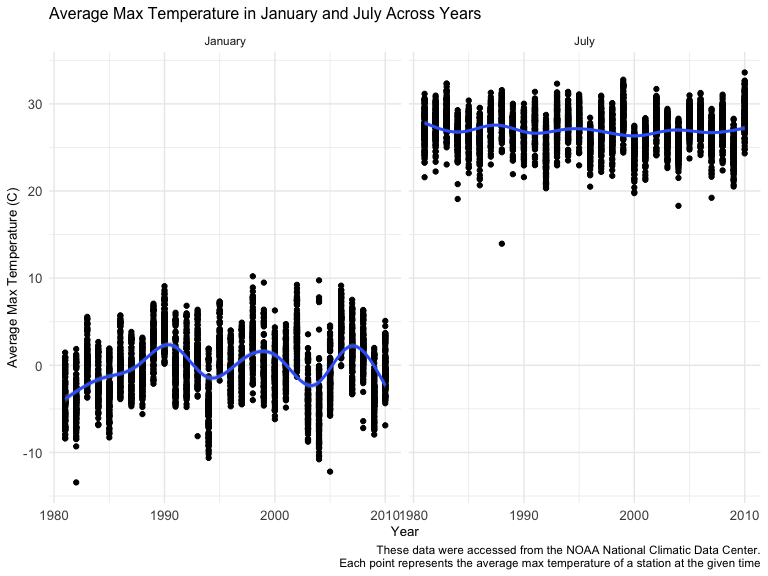
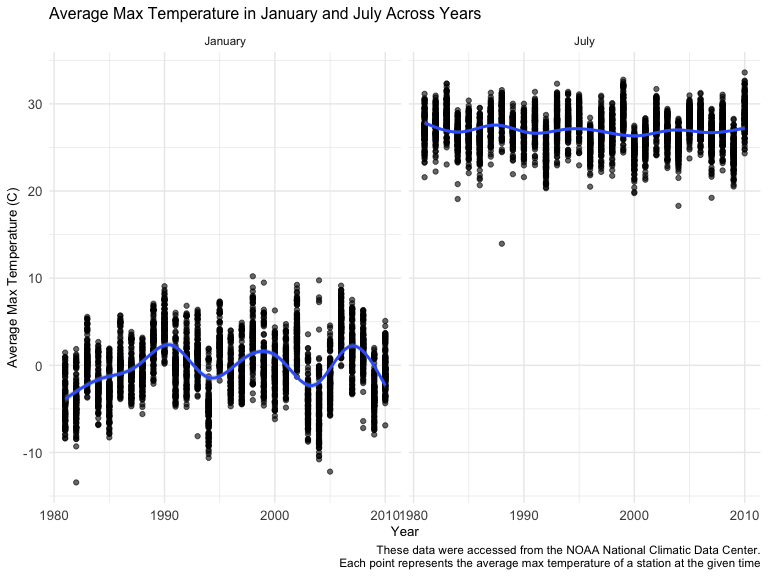
Problem 3 modify some comments, add captions to the plot

diff --git a/p8105_hw3_yx2638.md b/p8105_hw3_yx2638.md
@@ -3,110 +3,6 @@ p8105_hw3_yx2638
 Yifei Xu
 2022-10-15
 
-# Problem 1
-
-``` r
-# load the "Instacart" data from the "p8105.datasets"
-data("instacart")
-
-instacart = 
-  instacart %>% 
-  as_tibble(instacart)
-```
-
-The dataset `instacart` contains 1384617 rows and 15 columns, with each
-row resprenting a single product from an instacart order. Variables
-include identifiers for user, order, and product; the order in which
-each product was added to the cart. There are several order-level
-variables, describing the day and time of the order, and number of days
-since prior order. Then there are several item-specific variables,
-describing the product name (e.g. Yogurt, Avocado), department
-(e.g. dairy and eggs, produce), and aisle (e.g. yogurt, fresh fruits),
-and whether the item has been ordered by this user in the past. In
-total, there are 39123 products found in 131209 orders from 131209
-distinct users.
-
-``` r
-# summarize the number of items ordered from aisle
-instacart %>% 
-  count(aisle) %>% 
-  arrange(desc(n))
-```
-
-    ## # A tibble: 134 × 2
-    ##    aisle                              n
-    ##    <chr>                          <int>
-    ##  1 fresh vegetables              150609
-    ##  2 fresh fruits                  150473
-    ##  3 packaged vegetables fruits     78493
-    ##  4 yogurt                         55240
-    ##  5 packaged cheese                41699
-    ##  6 water seltzer sparkling water  36617
-    ##  7 milk                           32644
-    ##  8 chips pretzels                 31269
-    ##  9 soy lactosefree                26240
-    ## 10 bread                          23635
-    ## # … with 124 more rows
-
-In total, there are 134 aisles, with fresh vegetables and fresh fruits
-holding the most items ordered by far.
-
-``` r
-# plot the number of items ordered in each aisle
-instacart %>% 
-  count(aisle) %>% 
-  filter(n > 10000) %>% 
-  mutate(aisle = fct_reorder(aisle, n)) %>% 
-  ggplot(aes(x = aisle, y = n)) + 
-  geom_point() + 
-  labs(title = "Number of items ordered in each aisle") +
-  theme(axis.text.x = element_text(angle = 60, hjust = 1)) 
-```
-
-<img src="p8105_hw3_yx2638_files/figure-gfm/unnamed-chunk-3-1.png" width="90%" />
-
-``` r
-# Show the three most popular items in aisles `baking ingredients`, ` dog food care`, and `packaged vegetables fruits`,and include the number of times each item is ordered 
-instacart %>% 
-  filter(aisle %in% c("baking ingredients", "dog food care", "packaged vegetables fruits")) %>%
-  group_by(aisle) %>% 
-  count(product_name) %>% 
-  mutate(rank = min_rank(desc(n))) %>% 
-  filter(rank < 4) %>% 
-  arrange(desc(n)) %>%
-  knitr::kable()
-```
-
-| aisle                      | product_name                                  |    n | rank |
-|:---------------------------|:----------------------------------------------|-----:|-----:|
-| packaged vegetables fruits | Organic Baby Spinach                          | 9784 |    1 |
-| packaged vegetables fruits | Organic Raspberries                           | 5546 |    2 |
-| packaged vegetables fruits | Organic Blueberries                           | 4966 |    3 |
-| baking ingredients         | Light Brown Sugar                             |  499 |    1 |
-| baking ingredients         | Pure Baking Soda                              |  387 |    2 |
-| baking ingredients         | Cane Sugar                                    |  336 |    3 |
-| dog food care              | Snack Sticks Chicken & Rice Recipe Dog Treats |   30 |    1 |
-| dog food care              | Organix Chicken & Brown Rice Recipe           |   28 |    2 |
-| dog food care              | Small Dog Biscuits                            |   26 |    3 |
-
-``` r
-# show the mean hour of the day at which Pink Lady Apples and Coffee Ice Cream are ordered on each day of the week
-instacart %>%
-  filter(product_name %in% c("Pink Lady Apples", "Coffee Ice Cream")) %>%
-  group_by(product_name, order_dow) %>%
-  summarize(mean_hour = mean(order_hour_of_day)) %>%
-  spread(key = order_dow, value = mean_hour) %>%
-  knitr::kable(digits = 2)
-```
-
-    ## `summarise()` has grouped output by 'product_name'. You can override using the
-    ## `.groups` argument.
-
-| product_name     |     0 |     1 |     2 |     3 |     4 |     5 |     6 |
-|:-----------------|------:|------:|------:|------:|------:|------:|------:|
-| Coffee Ice Cream | 13.77 | 14.32 | 15.38 | 15.32 | 15.22 | 12.26 | 13.83 |
-| Pink Lady Apples | 13.44 | 11.36 | 11.70 | 14.25 | 11.55 | 12.78 | 11.94 |
-
 # Problem 2
 
 #### Read in the data
@@ -114,15 +10,6 @@ instacart %>%
 ``` r
 accel = read_csv("data/accel_data.csv") 
 ```
-
-    ## Rows: 35 Columns: 1443
-    ## ── Column specification ────────────────────────────────────────────────────────
-    ## Delimiter: ","
-    ## chr    (1): day
-    ## dbl (1442): week, day_id, activity.1, activity.2, activity.3, activity.4, ac...
-    ## 
-    ## ℹ Use `spec()` to retrieve the full column specification for this data.
-    ## ℹ Specify the column types or set `show_col_types = FALSE` to quiet this message.
 
 #### Tidy and wrangle the data
 
@@ -148,49 +35,47 @@ day during five weeks.
 accel_tidy %>%
         group_by(week, day) %>%
         summarize(total_activity_counts = sum(activity_counts)) %>%
-        knitr::kable()
+        knitr::kable(align = "c", format = "pipe",
+                     col.names = c("Week","Day","Total Activity Count"))
 ```
 
-    ## `summarise()` has grouped output by 'week'. You can override using the
-    ## `.groups` argument.
-
-| week | day       | total_activity_counts |
-|-----:|:----------|----------------------:|
-|    1 | Monday    |              78828.07 |
-|    1 | Tuesday   |             307094.24 |
-|    1 | Wednesday |             340115.01 |
-|    1 | Thursday  |             355923.64 |
-|    1 | Friday    |             480542.62 |
-|    1 | Saturday  |             376254.00 |
-|    1 | Sunday    |             631105.00 |
-|    2 | Monday    |             295431.00 |
-|    2 | Tuesday   |             423245.00 |
-|    2 | Wednesday |             440962.00 |
-|    2 | Thursday  |             474048.00 |
-|    2 | Friday    |             568839.00 |
-|    2 | Saturday  |             607175.00 |
-|    2 | Sunday    |             422018.00 |
-|    3 | Monday    |             685910.00 |
-|    3 | Tuesday   |             381507.00 |
-|    3 | Wednesday |             468869.00 |
-|    3 | Thursday  |             371230.00 |
-|    3 | Friday    |             467420.00 |
-|    3 | Saturday  |             382928.00 |
-|    3 | Sunday    |             467052.00 |
-|    4 | Monday    |             409450.00 |
-|    4 | Tuesday   |             319568.00 |
-|    4 | Wednesday |             434460.00 |
-|    4 | Thursday  |             340291.00 |
-|    4 | Friday    |             154049.00 |
-|    4 | Saturday  |               1440.00 |
-|    4 | Sunday    |             260617.00 |
-|    5 | Monday    |             389080.00 |
-|    5 | Tuesday   |             367824.00 |
-|    5 | Wednesday |             445366.00 |
-|    5 | Thursday  |             549658.00 |
-|    5 | Friday    |             620860.00 |
-|    5 | Saturday  |               1440.00 |
-|    5 | Sunday    |             138421.00 |
+| Week |    Day    | Total Activity Count |
+|:----:|:---------:|:--------------------:|
+|  1   |  Monday   |       78828.07       |
+|  1   |  Tuesday  |      307094.24       |
+|  1   | Wednesday |      340115.01       |
+|  1   | Thursday  |      355923.64       |
+|  1   |  Friday   |      480542.62       |
+|  1   | Saturday  |      376254.00       |
+|  1   |  Sunday   |      631105.00       |
+|  2   |  Monday   |      295431.00       |
+|  2   |  Tuesday  |      423245.00       |
+|  2   | Wednesday |      440962.00       |
+|  2   | Thursday  |      474048.00       |
+|  2   |  Friday   |      568839.00       |
+|  2   | Saturday  |      607175.00       |
+|  2   |  Sunday   |      422018.00       |
+|  3   |  Monday   |      685910.00       |
+|  3   |  Tuesday  |      381507.00       |
+|  3   | Wednesday |      468869.00       |
+|  3   | Thursday  |      371230.00       |
+|  3   |  Friday   |      467420.00       |
+|  3   | Saturday  |      382928.00       |
+|  3   |  Sunday   |      467052.00       |
+|  4   |  Monday   |      409450.00       |
+|  4   |  Tuesday  |      319568.00       |
+|  4   | Wednesday |      434460.00       |
+|  4   | Thursday  |      340291.00       |
+|  4   |  Friday   |      154049.00       |
+|  4   | Saturday  |       1440.00        |
+|  4   |  Sunday   |      260617.00       |
+|  5   |  Monday   |      389080.00       |
+|  5   |  Tuesday  |      367824.00       |
+|  5   | Wednesday |      445366.00       |
+|  5   | Thursday  |      549658.00       |
+|  5   |  Friday   |      620860.00       |
+|  5   | Saturday  |       1440.00        |
+|  5   |  Sunday   |      138421.00       |
 
 We cannot observe apparent trend from the table. However, it’s obvious
 that the total activity accounts on Saturdays in week 4 and week 5 is
@@ -201,19 +86,20 @@ far lower than any other days.
 ``` r
 accel_tidy %>%
         group_by(day, minute) %>%
+        rename(Day = day) %>%
         ggplot(aes(x = minute, y = activity_counts)) +
-        geom_point(aes(color = day), alpha = 0.6) +
+        geom_point(aes(color = Day), alpha = 0.6) +
         scale_color_brewer(palette = "Set1") +
         geom_smooth() + 
         scale_x_continuous(
                 breaks = c(0, 180, 360, 540, 720, 900, 1080, 1260, 1440),
                 labels = c("12am", "3am", "6am", "9am", "12pm", "3pm", "6pm", "9pm", "12am")) + 
-        labs(x = "Time", y = "Activity Counts", title = "24-hour Activity Time Courses for Each Day")
+        labs(x = "Time", 
+             y = "Activity Counts", 
+             title = "24-hour Activity Time Courses for Each Day")
 ```
 
-    ## `geom_smooth()` using method = 'gam' and formula 'y ~ s(x, bs = "cs")'
-
-<img src="p8105_hw3_yx2638_files/figure-gfm/unnamed-chunk-9-1.png" width="90%" />
+<img src="p8105_hw3_yx2638_files/figure-gfm/unnamed-chunk-4-1.png" width="90%" />
 
 Within a day, we can observe that the activity count of this male is
 very low between 12am and 3am, and then begins to increase. Around 9am,
@@ -248,21 +134,27 @@ ny_noaa =
 ny_noaa_tidy = ny_noaa %>%
         janitor::clean_names() %>%
         separate(date, into = c("year", "month", "day")) %>%
+        arrange(year, month) %>%
         mutate(year = as.numeric(year),
                month = month.name[as.numeric(month)],
                day = as.numeric(day)) %>%
-        mutate(prcp = as.numeric(prcp)/10,
+        mutate(prcp = prcp/10,
                tmax = as.numeric(tmax)/10,
-               tmin = as.numeric(tmin)/10)
+               tmin = as.numeric(tmin)/10) 
 ```
 
 `NY NOAA` collected weather data all New York state weather stations
 from January 1, 1981 through December 31, 2010. The tidy dataset has
-2595176 observations, with 9 key variables, inluding id, year, month,
-day, prcp, snow, snwd, tmax, tmin. The unit for precipitation, snowfall
-and snow depth is unified as “mm”, while the unit for maximum
-temperature `tmax` and minimum temperature `tmin` which maximum
-temperature and minimum temperature is both “degrees C”.
+2595176 observations, with 9 key variables, including id, year, month,
+day, prcp, snow, snwd, tmax, tmin.
+
+The `id` is a character variable. We separate the date into `year`,
+`month` and `day`, which are numeric, character, numeric variable,
+respectively. `prcp`, `snow`, `snwd`, `tmax`, `tmin` are numeric
+variables. The unit for precipitation, snowfall and snow depth is
+unified as “mm”, while the unit for maximum temperature `tmax` and
+minimum temperature `tmin` which maximum temperature and minimum
+temperature is both “degrees C”.
 
 Each weather station may only collect a subset of these variables, which
 can lead to problems with missing data in the dataset. Missing data
@@ -310,30 +202,24 @@ Jan_Jul = ny_noaa_tidy %>%
         drop_na(tmax) %>%
         group_by(id, year, month) %>%
         summarize(avg_tmax = mean(tmax))
-```
 
-    ## `summarise()` has grouped output by 'id', 'year'. You can override using the
-    ## `.groups` argument.
 
-``` r
 Jan_Jul %>%
         ggplot(aes(x = year, y = avg_tmax)) + 
-        geom_point() + 
+        geom_point(alpha = 0.6) + 
         geom_smooth() +
         facet_grid(. ~ month) +
         labs(x = "Year",
              y = "Average Max Temperature (C)",
              title = "Average Max Temperature in January and July Across Years",
-             caption = "These data were accessed from the NOAA National Climatic Data Center.
+             caption = "Data from the rnoaa package.
              Each point represents the average max temperature of a station at the given time") +
         theme(plot.title = element_text(size = 12)) +
         theme(axis.title = element_text(size = 10)) +
         theme(axis.text = element_text(size = 10))
 ```
 
-    ## `geom_smooth()` using method = 'gam' and formula 'y ~ s(x, bs = "cs")'
-
-<img src="p8105_hw3_yx2638_files/figure-gfm/unnamed-chunk-13-1.png" width="90%" />
+<img src="p8105_hw3_yx2638_files/figure-gfm/unnamed-chunk-8-1.png" width="90%" />
 
 From the two-panel plot, we can intuitively see that the average max
 temperature in January is much slower than that in July. As is known to
@@ -352,6 +238,7 @@ abnormally extreme low temperature.
 ``` r
 # (i) show tmax vs tmin for the full dataset
 tmax_tmin = ny_noaa_tidy %>%
+        drop_na(tmin, tmax) %>%
         ggplot(aes(x = tmin, y = tmax)) +
         geom_hex() + 
         labs(x = "Minimum Temperature (C)", 
@@ -367,10 +254,11 @@ tmax_tmin = ny_noaa_tidy %>%
 snow_dist = ny_noaa_tidy %>%
         filter(snow < 100 & snow > 0) %>%
         ggplot(aes(x = snow, y = as.factor(year))) +
-        geom_density_ridges(scale = 0.85) + 
+        geom_density_ridges(scale = 0.6) + 
         labs(x = "Snowfall Values (mm)",
              y = "Year",
-             title = "Distribution of Snowfall Values") +
+             title = "Distribution of Snowfall Values",
+             caption = "Data from the rnoaa package") +
         theme(plot.title = element_text(size = 12)) +
         theme(axis.title = element_text(size = 10)) +
         theme(axis.text = element_text(size = 10))
@@ -379,11 +267,11 @@ snow_dist = ny_noaa_tidy %>%
 tmax_tmin + snow_dist 
 ```
 
-    ## Picking joint bandwidth of 3.76
-
-<img src="p8105_hw3_yx2638_files/figure-gfm/unnamed-chunk-14-1.png" width="90%" />
+<img src="p8105_hw3_yx2638_files/figure-gfm/unnamed-chunk-9-1.png" width="90%" />
 
 From this 2-panel plot, we can observe that the maximal and minimal
 temperature may have a positive correlation and the temperature is
 around 0 to 25 degrees C for most of the time. The distribution of
-snowfall values (0-100mm) is quite similar across the years.
+snowfall values (0-100mm) is quite similar across the years. The
+snowfall values concentrate between 0 and 30mm and can reach 50-80mm
+under some extreme weather conditions, which is rare.
